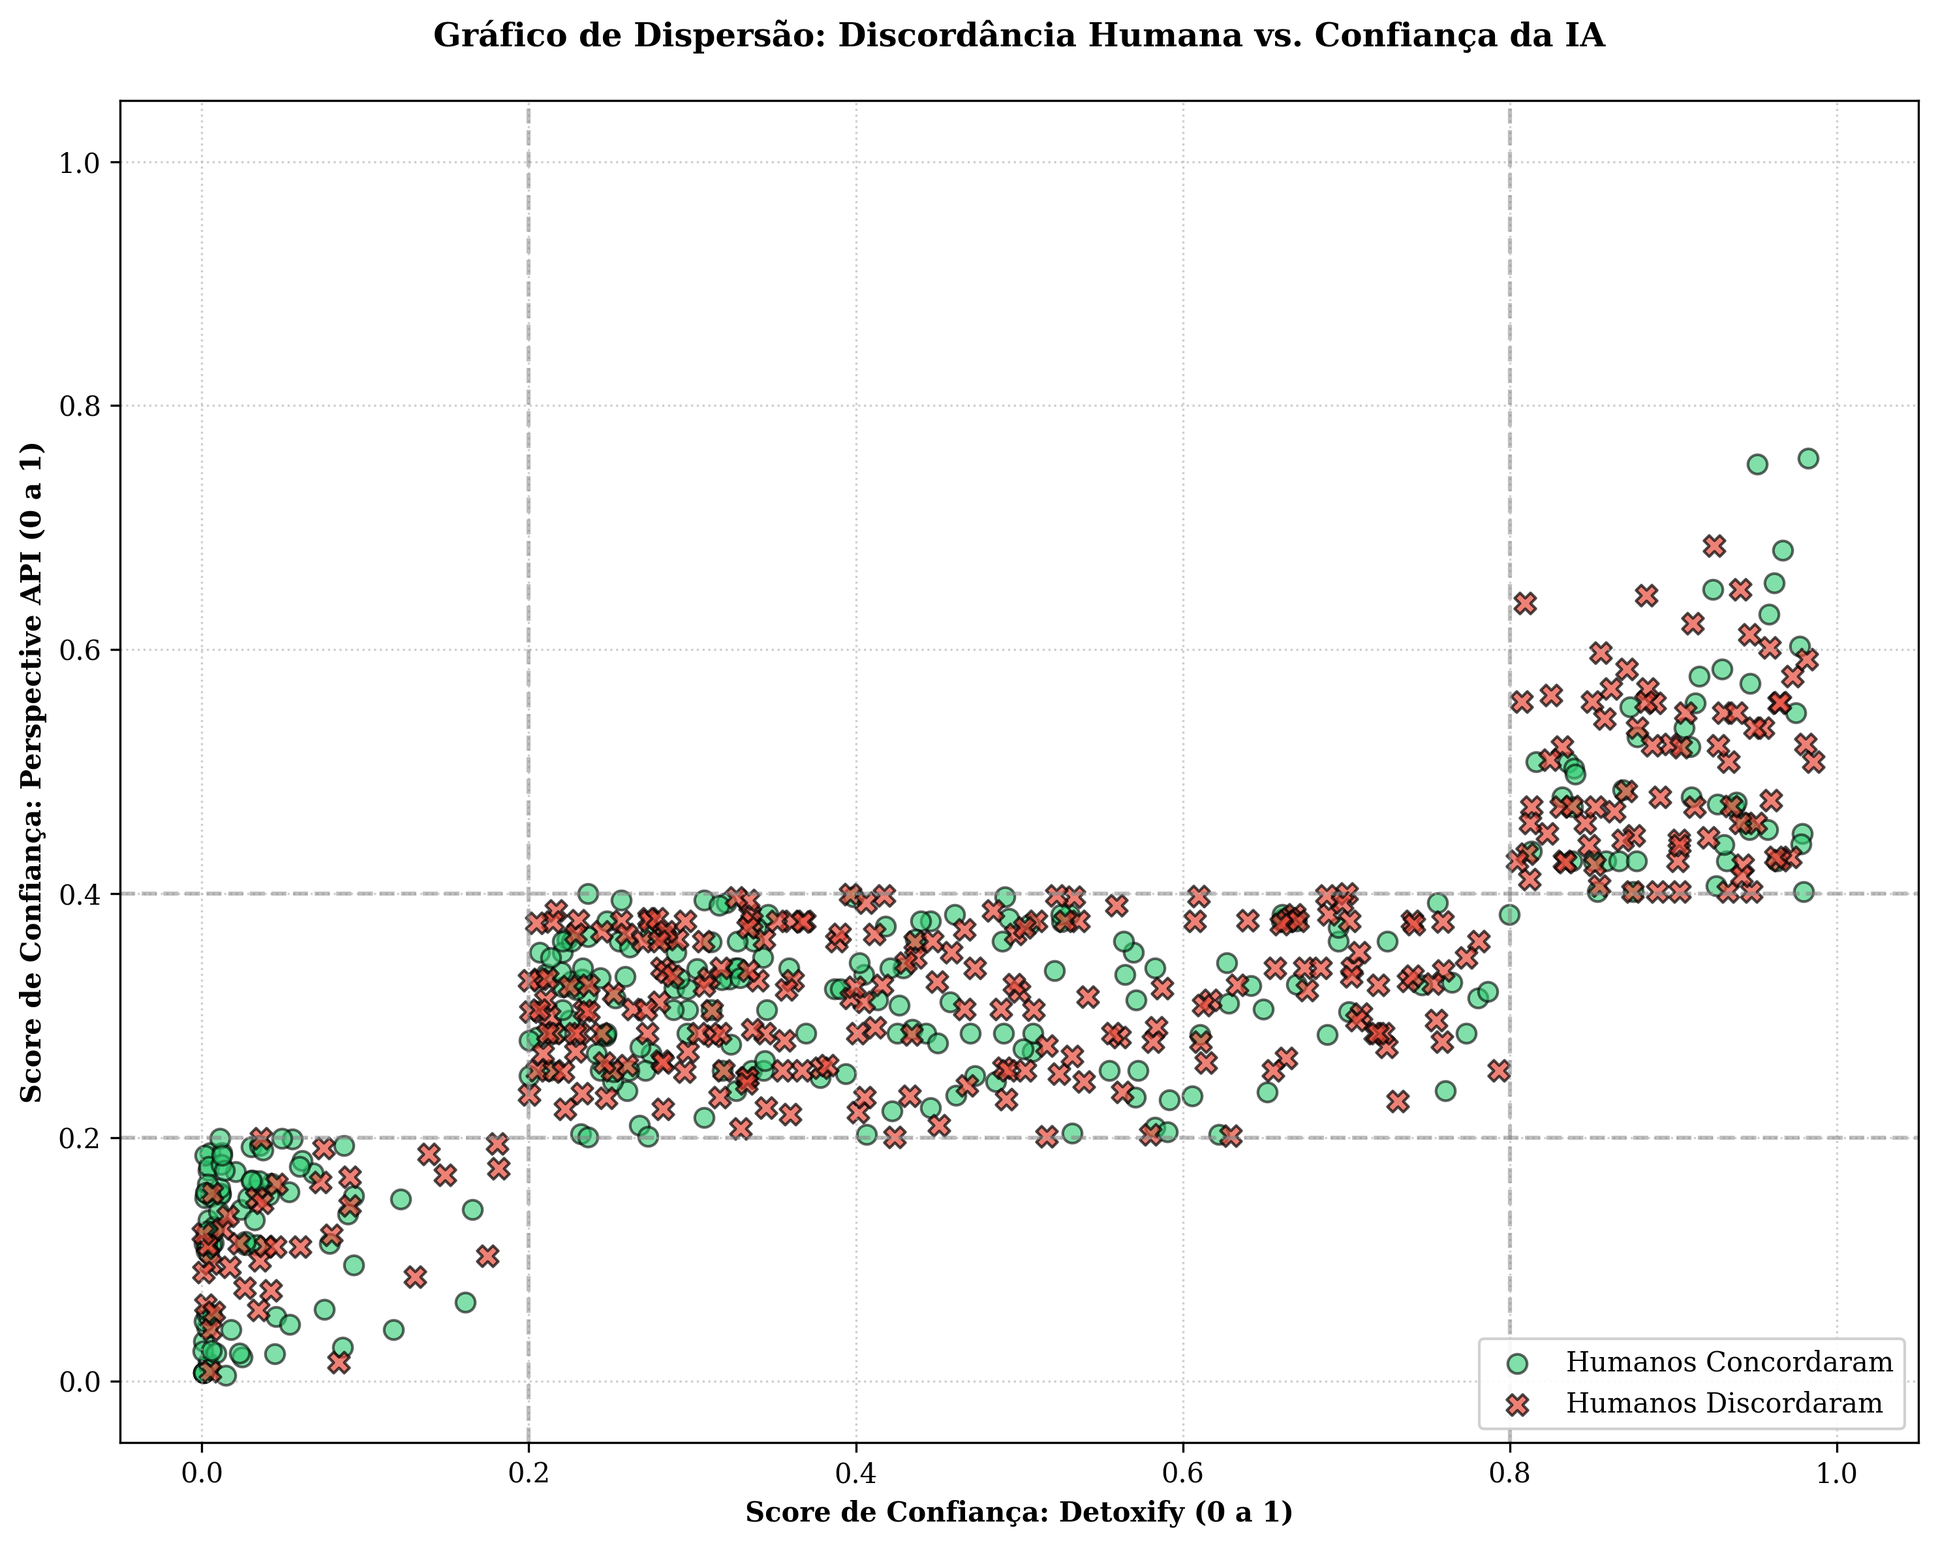
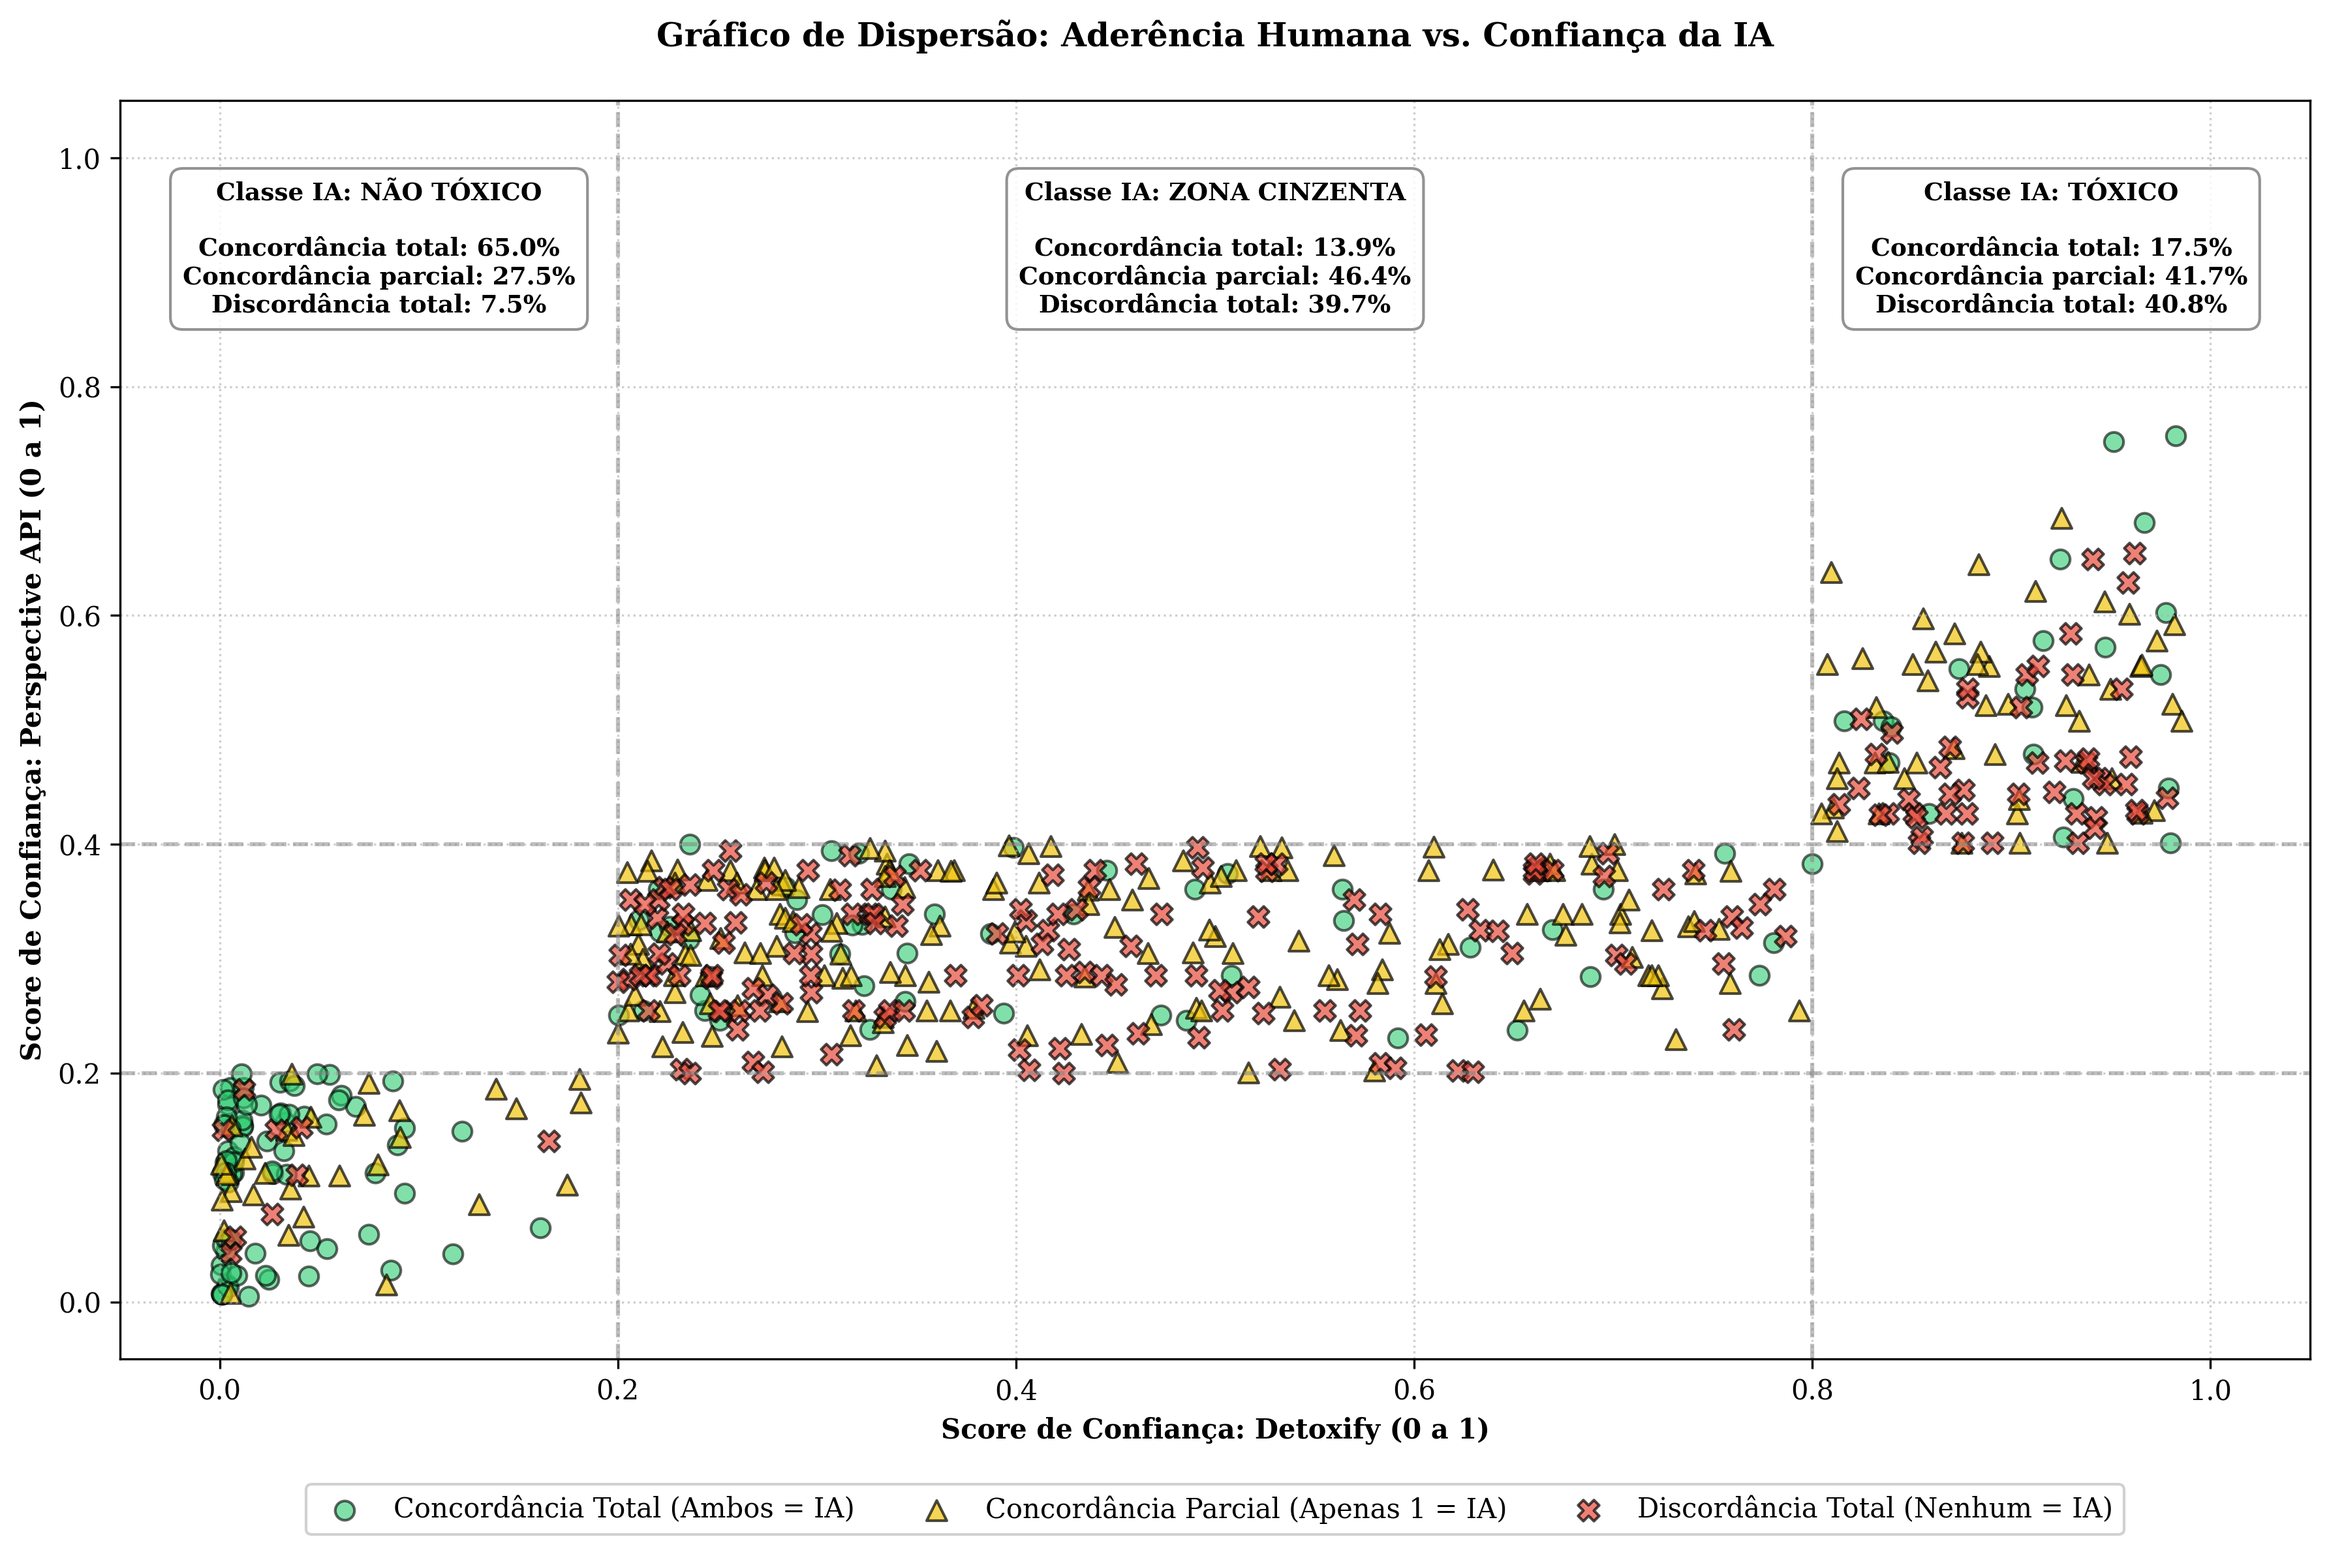
fix: Correção do gráfico de dispersão de concordância dos humanos com a IA

diff --git a/Coletor/crawler/anotacao/calcular_concordancia.py b/Coletor/crawler/anotacao/calcular_concordancia.py
@@ -379,61 +379,117 @@ def gerar_matriz_confusao_agregada(df_raw):
 """
     Gera um Gráfico de Dispersão (Scatter Plot) correlacionando a 
     confiança das IAs (scores de 0 a 1) com a concordância humana.
-    Pontos verdes indicam que os humanos concordaram entre si, 
-    pontos vermelhos indicam discordância.
+    Classificado em 3 níveis (Total, Parcial, Discordância).
+    Inclui caixas de texto com a distribuição percentual de 
+    aderência humana dentro de cada zona estatística.
 """
 def gerar_grafico_dispersao_concordancia(df_raw, matriz_pivot):
-    print("\n--- Gerando Gráfico de Dispersão (Confiança da IA vs. Discordância) ---")
+    print("\n--- Gerando Gráfico de Dispersão (Confiança da IA vs. Discordância com Proporções) ---")
     
-    # 1. Determinar a concordância humana por SVT
-    # Como a matriz_pivot tem as SVTs nas linhas e as anotações nas colunas,
-    # contamos quantos rótulos únicos não-nulos cada SVT recebeu.
-    concordancia_dict = {}
-    for svt, row in matriz_pivot.iterrows():
-        respostas_validas = row.dropna().unique()
-        if len(respostas_validas) == 1:
-            concordancia_dict[svt] = 'Concordaram'
-        elif len(respostas_validas) > 1:
-            concordancia_dict[svt] = 'Discordaram'
-            
-    # 2. Resgatar os scores originais da IA por SVT
-    # Removemos as duplicatas baseando-se no ID da SVT para manter 1 score de IA por texto
+    # 1. Resgatar os scores originais da IA por SVT para reconstruir o gabarito
     df_scores = df_raw.drop_duplicates(subset=[COLUNA_ID_SVT])[[COLUNA_ID_SVT, COLUNA_TOXICITY, COLUNA_PTOXICITY]].copy()
     
+    # Reconstroi a classe original da IA baseada no score do Detoxify (Thresholds padrão do projeto)
+    t1_default = 0.20
+    t2_default = 0.80
+    
+    def reconstruir_classe_ia(score):
+        if score < t1_default: return LABEL_NT
+        elif score >= t2_default: return LABEL_T
+        else: return LABEL_GZ
+        
+    df_scores['Classe_IA'] = df_scores[COLUNA_TOXICITY].apply(reconstruir_classe_ia)
+    df_scores.set_index(COLUNA_ID_SVT, inplace=True)
+    
+    # 2. Determinar o nível de concordância humana COM a IA por SVT
+    concordancia_dict = {}
+    for svt, row in matriz_pivot.iterrows():
+        respostas_validas = row.dropna().tolist()
+        
+        if svt in df_scores.index and len(respostas_validas) > 0:
+            classe_ia = df_scores.loc[svt, 'Classe_IA']
+            
+            # Conta quantos avaliadores marcaram exatamente a mesma classe que a IA
+            acertos = respostas_validas.count(classe_ia)
+            total_avaliadores = len(respostas_validas)
+            
+            if acertos == total_avaliadores:
+                concordancia_dict[svt] = 'Concordância Total'
+            elif acertos == 0:
+                concordancia_dict[svt] = 'Discordância Total'
+            else:
+                concordancia_dict[svt] = 'Concordância Parcial'
+                
     # Mapeia a métrica de concordância para o dataframe de plotagem
-    df_scores['Concordancia'] = df_scores[COLUNA_ID_SVT].map(concordancia_dict)
+    df_scores['Concordancia'] = df_scores.index.map(concordancia_dict)
     df_plot = df_scores.dropna(subset=['Concordancia'])
     
     # 3. Plotagem em Alta Resolução
-    fig, ax = plt.subplots(figsize=(10, 8), dpi=300)
+    fig, ax = plt.subplots(figsize=(12, 8), dpi=300) # Ajustado a largura (12) para caber as caixas de texto confortavelmente
     
-    # Separa os grupos para marcações visuais distintas
-    grupo_concordam = df_plot[df_plot['Concordancia'] == 'Concordaram']
-    grupo_discordam = df_plot[df_plot['Concordancia'] == 'Discordaram']
+    grupo_total = df_plot[df_plot['Concordancia'] == 'Concordância Total']
+    grupo_parcial = df_plot[df_plot['Concordancia'] == 'Concordância Parcial']
+    grupo_discordam = df_plot[df_plot['Concordancia'] == 'Discordância Total']
     
-    # Plot dos pontos de concordância (Bolinhas Verdes)
-    ax.scatter(grupo_concordam[COLUNA_TOXICITY], grupo_concordam[COLUNA_PTOXICITY], 
-               color='#2ECC71', alpha=0.6, edgecolors='black', label='Humanos Concordaram', s=50)
+    # Plot 1: Concordância Total (Bolinhas Verdes)
+    ax.scatter(grupo_total[COLUNA_TOXICITY], grupo_total[COLUNA_PTOXICITY], 
+               color='#2ECC71', alpha=0.6, edgecolors='black', 
+               label='Concordância Total (Ambos = IA)', s=50, marker='o')
                
-    # Plot dos pontos de discordância (X Vermelhos)
+    # Plot 2: Concordância Parcial (Triângulos Amarelos)
+    ax.scatter(grupo_parcial[COLUNA_TOXICITY], grupo_parcial[COLUNA_PTOXICITY], 
+               color='#F1C40F', alpha=0.7, edgecolors='black', 
+               label='Concordância Parcial (Apenas 1 = IA)', s=55, marker='^')
+               
+    # Plot 3: Discordância Total (X Vermelhos)
     ax.scatter(grupo_discordam[COLUNA_TOXICITY], grupo_discordam[COLUNA_PTOXICITY], 
-               color='#E74C3C', alpha=0.7, edgecolors='black', label='Humanos Discordaram', s=60, marker='X')
+               color='#E74C3C', alpha=0.7, edgecolors='black', 
+               label='Discordância Total (Nenhum = IA)', s=60, marker='X')
                
-    # Adiciona linhas de referência dos Thresholds originais da sua metodologia
-    # Detoxify (Vertical): 0.20 (Max NT) e 0.80 (Min T)
+    # Adiciona linhas de referência dos Thresholds
     ax.axvline(x=0.20, color='gray', linestyle='--', alpha=0.5)
     ax.axvline(x=0.80, color='gray', linestyle='--', alpha=0.5)
-    # Perspective API (Horizontal): 0.20 (Max NT) e 0.40 (Min T)
     ax.axhline(y=0.20, color='gray', linestyle='--', alpha=0.5)
     ax.axhline(y=0.40, color='gray', linestyle='--', alpha=0.5)
     
+    # =================================================================
+    # 4. Cálculo e Plotagem das Proporções por Zona
+    # =================================================================
+    zonas = [
+        ('Classe IA: NÃO TÓXICO', 0.08, df_plot[df_plot[COLUNA_TOXICITY] < 0.20]),
+        ('Classe IA: ZONA CINZENTA', 0.50, df_plot[(df_plot[COLUNA_TOXICITY] >= 0.20) & (df_plot[COLUNA_TOXICITY] < 0.80)]),
+        ('Classe IA: TÓXICO', 0.92, df_plot[df_plot[COLUNA_TOXICITY] >= 0.80])
+    ]
+    
+    # Estilo da caixa de texto (fundo branco translúcido para não bloquear os pontos)
+    props_bbox = dict(boxstyle="round,pad=0.5", facecolor="white", edgecolor="gray", alpha=0.85)
+    
+    for nome_zona, pos_x, df_zona in zonas:
+        if len(df_zona) > 0:
+            total_zona = len(df_zona)
+            pct_tot = (len(df_zona[df_zona['Concordancia'] == 'Concordância Total']) / total_zona) * 100
+            pct_par = (len(df_zona[df_zona['Concordancia'] == 'Concordância Parcial']) / total_zona) * 100
+            pct_dis = (len(df_zona[df_zona['Concordancia'] == 'Discordância Total']) / total_zona) * 100
+            
+            # Texto formatado com alinhamento rigoroso
+            texto = (f"{nome_zona}\n\n"
+                     f"Concordância total: {pct_tot:.1f}%\n"
+                     f"Concordância parcial: {pct_par:.1f}%\n"
+                     f"Discordância total: {pct_dis:.1f}%")
+            
+            # Posiciona a caixa no topo do gráfico (y=0.98), alinhada ao centro do eixo x definido
+            ax.text(pos_x, 0.98, texto, ha='center', va='top', 
+                    fontsize=9, weight='bold', bbox=props_bbox)
+
     # Configuração de Eixos
     ax.set_xlim(-0.05, 1.05)
     ax.set_ylim(-0.05, 1.05)
     ax.set_xlabel('Score de Confiança: Detoxify (0 a 1)', weight='bold')
     ax.set_ylabel('Score de Confiança: Perspective API (0 a 1)', weight='bold')
-    ax.set_title('Gráfico de Dispersão: Discordância Humana vs. Confiança da IA', pad=20, weight='bold')
-    ax.legend(loc='lower right', framealpha=0.9)
+    ax.set_title('Gráfico de Dispersão: Aderência Humana vs. Confiança da IA', pad=20, weight='bold')
+    
+    # Move a legenda para a margem inferior para evitar sobreposição com as novas caixas
+    ax.legend(loc='lower center', bbox_to_anchor=(0.5, -0.15), ncol=3, framealpha=0.9)
     
     plt.grid(True, linestyle=':', alpha=0.6)
     plt.tight_layout()
@@ -442,7 +498,7 @@ def gerar_grafico_dispersao_concordancia(df_raw, matriz_pivot):
     plt.savefig(caminho_salvamento, dpi=300, bbox_inches='tight')
     plt.close()
     
-    print(f" └── Gráfico de dispersão salvo em: 'dispersao_concordancia_ia.png'")
+    print(f" └── Gráfico de dispersão atualizado salvo em: 'dispersao_concordancia_ia_proporcoes.png'")
 
 """
     Cruza os dados da matriz de anotação com os textos originais ('tiras') 

diff --git a/Coletor/crawler/anotacao/preparar_dados.py b/Coletor/crawler/anotacao/preparar_dados.py
@@ -310,3 +310,88 @@ if __name__ == "__main__":
     
     # Opcional (porém super recomendado): Exporta o arquivo segmentado por voluntário
     gerar_arquivos_individuais_avaliadores(df_master_label_studio)
+
+
+'''
+Guidelines para anotação:
+
+<div>
+    
+    <h3>📋 Diretrizes de Anotação: Classificação de Toxicidade Infantil</h3>
+    
+    <br>
+    <p>
+        <strong>Objetivo:</strong> Classificar transcrições de vídeos de <em>Minecraft</em> e <em>Roblox</em> destinados a <strong>crianças</strong> (de até 12 anos de idade, contemplando o público do <em>Youtube Kids</em>) nas classes Não Tóxico, Zona Cinzenta e Tóxico. 
+        <br><br>
+        Considere as seguintes definições iniciais antes de detalhar cada classe disponível:
+    </p>
+    
+    <br>
+    
+    <ul>
+        <li>
+            <strong>Toxicidade:</strong> Qualquer comentário rude, desrespeitoso ou irracional que provavelmente fará as pessoas abandonarem uma discussão.
+        </li>
+        <li>
+            <strong>Ataque à Identidade:</strong> Comentários negativos ou odiosos dirigidos a alguém por causa de sua identidade (abrange ataques de raça, etnia, gênero, orientação sexual, religião, etc.).
+        </li>
+        <li>
+            <strong>Insulto:</strong> Comentário insultuoso, inflamatório ou negativo focado em uma pessoa ou grupo (inclui xingamentos diretos como "lixo", "burro", "idiota").
+        </li>
+        <li>
+            <strong>Profanação/Palavrões:</strong> Uso de palavrões ou outra linguagem obscena ou profana, sendo estritamente inaceitável para o público infantil.
+        </li>
+        <li>
+            <strong>Ameaça: </strong> Textos que descrevem a intenção de infligir dor, ferimento ou violência contra um indivíduo ou grupo.
+        </li>
+    </ul>
+
+    <br>
+    <hr>
+    <br>
+    
+    <div>
+        <h4>💡 A Regra de Ouro: O Contexto Infantil</h4>
+        <p>
+            Existem três opções a serem marcadas. Se o conteúdo causou desconforto, possui um palavrão ou ataca alguém, marque como <strong>Tóxico</strong>. Se a intenção é puramente ambígua e depende muito do contexto do jogo, marque como <strong>Zona Cinzenta</strong>. Na total ausência de malícia e risco, marque como <strong>Não Tóxico</strong>.
+        </p>
+    </div>
+    
+    <br>
+    <hr>
+    <br>
+    
+    <h4>✅ Não Tóxico</h4>
+    <p>
+        Textos completamente seguros e inofensivos para o público infantil. Não contêm linguagem obscena, hostilidade, insultos ou qualquer forma de agressividade. A comunicação é neutra, amigável ou focada estritamente na jogabilidade (<em>gameplay</em>).
+    </p>
+
+    
+    <br>
+    
+    <h4>⚠ Zona Cinzenta</h4>
+    <p>
+        Textos ambíguos ou limítrofes. Incluem gírias do universo gamer (como "noob" ou "bot") usadas de maneira neutra ou em tom de brincadeira, sem intenção clara de humilhar. São comentários que causam dúvida: não são puramente amigáveis, mas também não atingem o limiar de uma ofensa clara ou uso de palavrões que exija classificação imediata como tóxico.
+    </p>
+
+    
+    <br>
+    
+    <h4>🛑 Tóxico</h4>
+    <p>
+        O texto deve ser classificado como Tóxico se apresentar qualquer nível de hostilidade ou inadequação para crianças, manifestando-se através de um ou mais dos conceitos descritos anteriormente.
+    </p>
+    
+    <br>
+    <hr>
+    <br>
+    
+    <div>
+        <h4>🎧 Atenção às Transcrições e Dinâmica</h4>
+        <p>
+            Lembre-se de que os textos avaliados são gerados automaticamente e <strong>a transcrição pode ter falhas</strong> (como erros de reconhecimento de palavras ou ausência de pontuação). Além disso, quando houver <strong>mais de uma pessoa conversando simultaneamente</strong>, é necessário ter atenção redobrada para entender adequadamente a <strong>dinâmica da conversa entre os interlocutores</strong> antes de aplicar o rótulo final.
+        </p>
+    </div>
+
+</div>
+'''
